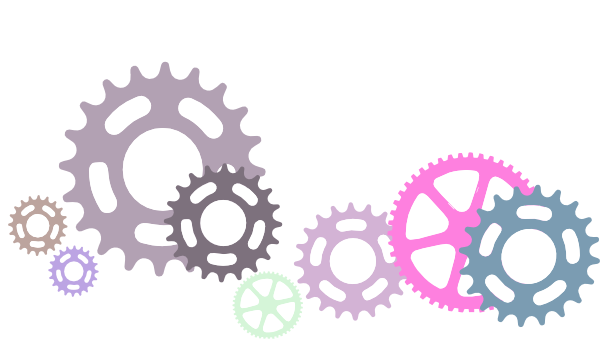
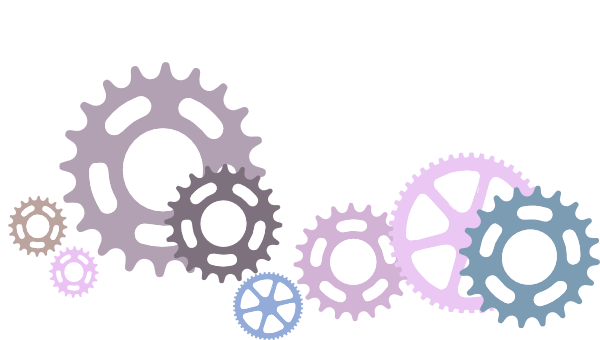
working on frontend; added gif; need to implement sliders

diff --git a/templates/home_page.html b/templates/home_page.html
@@ -32,7 +32,7 @@
 		      			<li><a href="/">home</a></li>  
 		      			<li><a href="/makestation">makestation </a></li>  
 		      			<li><a href="/gallery">gallery</a></li>  
-		      			<li><a href="#">about us</a></li>  
+		      			<li><a href="about">about</a></li>  
 		    		</ul>
 		    			<div id="gearscogs">
 							<img src="/static/gearscogs.png"/>
@@ -42,11 +42,14 @@
 	    		<div class="col-md-10">
 	    		<div class="text-center">
 					<div id="makestationbot">
-						<a href="/makestation"><img src="/static/noun_1248.png" height="400" width="300"/></a>
-					</div>
+
+						<img src="/static/iqm2w.gif"/>
+
+						<!--<a href="/makestation"><img src="/static/noun_1248.png" height="400" width="300"/></a>-->
+					<!-- </div>
 					<h3>Create and 3D-print your own Bit-z-Bot!</h3>
 					</div>
-					<h5>Making robot gals since 2015</h5>
+					<h5>Making robot gals since 2015</h5> -->
 				</div>
 				</div>
 		</div>

diff --git a/static/main.css b/static/main.css
@@ -4,8 +4,8 @@ body div {
 }
 
 body h1 {
-	color: #f380df;
-	/*background-color: #d3d3d3;*/
+	color: #ebc2f4;
+	background-color: #b2a1b3;
 	font-weight: bold;
 	font-size: 80px;
 	margin-top: 10px;
@@ -15,6 +15,8 @@ body h1 {
 }
 
 body h2 {
+
+	color: #7b9cb2;
 	text-align: left;
 	padding-left: 75px;
 	padding-bottom: 20px;
@@ -47,7 +49,7 @@ body h5 {
    width:250px;  
    margin:5px;  
    padding:0;  
-   background-color:#b2a1b3;  
+   background-color:#d3b3d5;  
    -webkit-border-top-right-radius: 10px 25px;  
    -moz-border-radius-topright:10px 25px;  
    border-top-right-radius: 10px 25px;  

diff --git a/templates/botdeets.html b/templates/botdeets.html
@@ -1,0 +1,23 @@
+<!DOCTYPE html>
+<html>
+<head>
+</head>
+
+<body>
+
+	<h2>{{ display_bot.common_name }}</h2>
+<img class="product-img" src="/static/{{display_bot.imgurl}}">
+
+<div class="bot-details">
+	<h3>Bot details</h3>
+	<ul>
+		<li> Bot Name: {{ display_bot.bot_name }}</li>
+		<li>Maker: {{ display_bot.maker_name }}</li>
+		<li>Maker Age: {{ display_bot.maker_age }}</li>
+	</ul>
+</div>
+
+
+</body>
+
+</html>

diff --git a/templates/about.html b/templates/about.html
@@ -1,0 +1,10 @@
+<!DOCTYPE html>
+<html>
+<head>
+</head>
+
+<body>
+	<div>BitzBots is the first endeavor of Anne V. to foster girls' interest in science and technology.</div>
+</body>
+
+</html>

diff --git a/make_botgal.py b/make_botgal.py
@@ -14,6 +14,9 @@ def welcome_page():
 	
 	return render_template("home_page.html")
 
+@app.route('/about')
+def about():
+	return render_template("about.html")
 
 @app.route('/makestation')
 def make_galbot():
